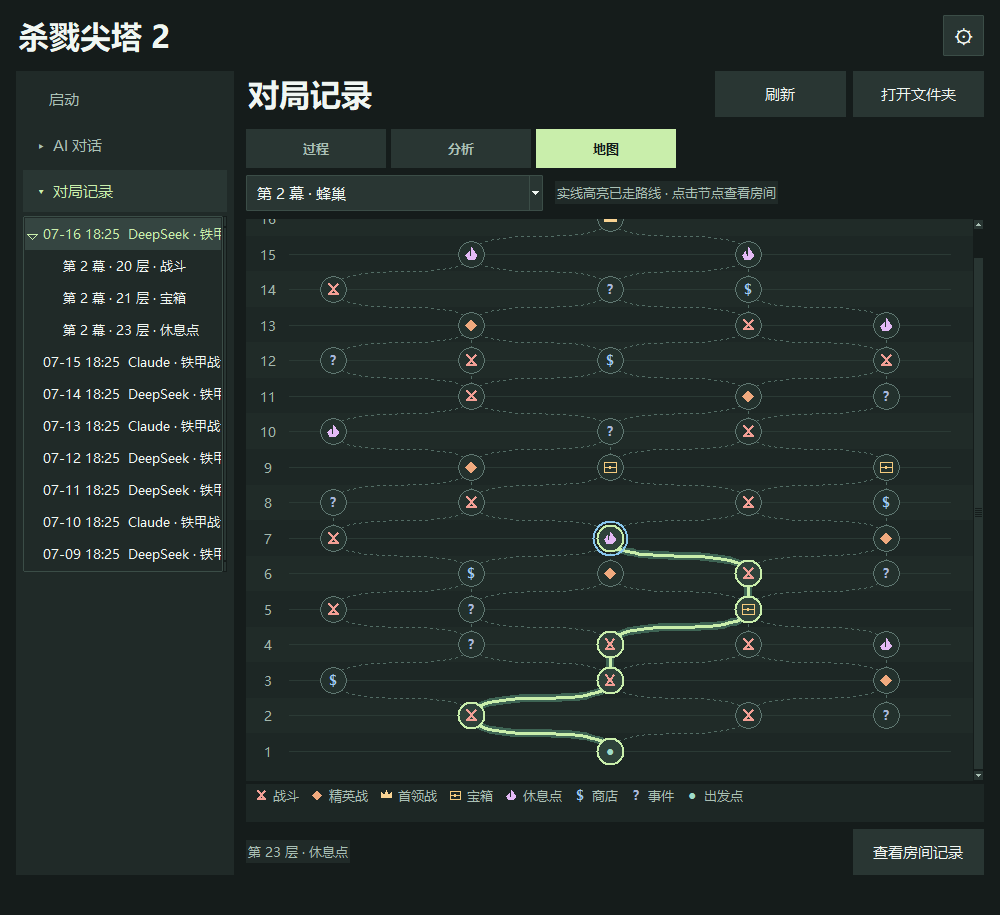
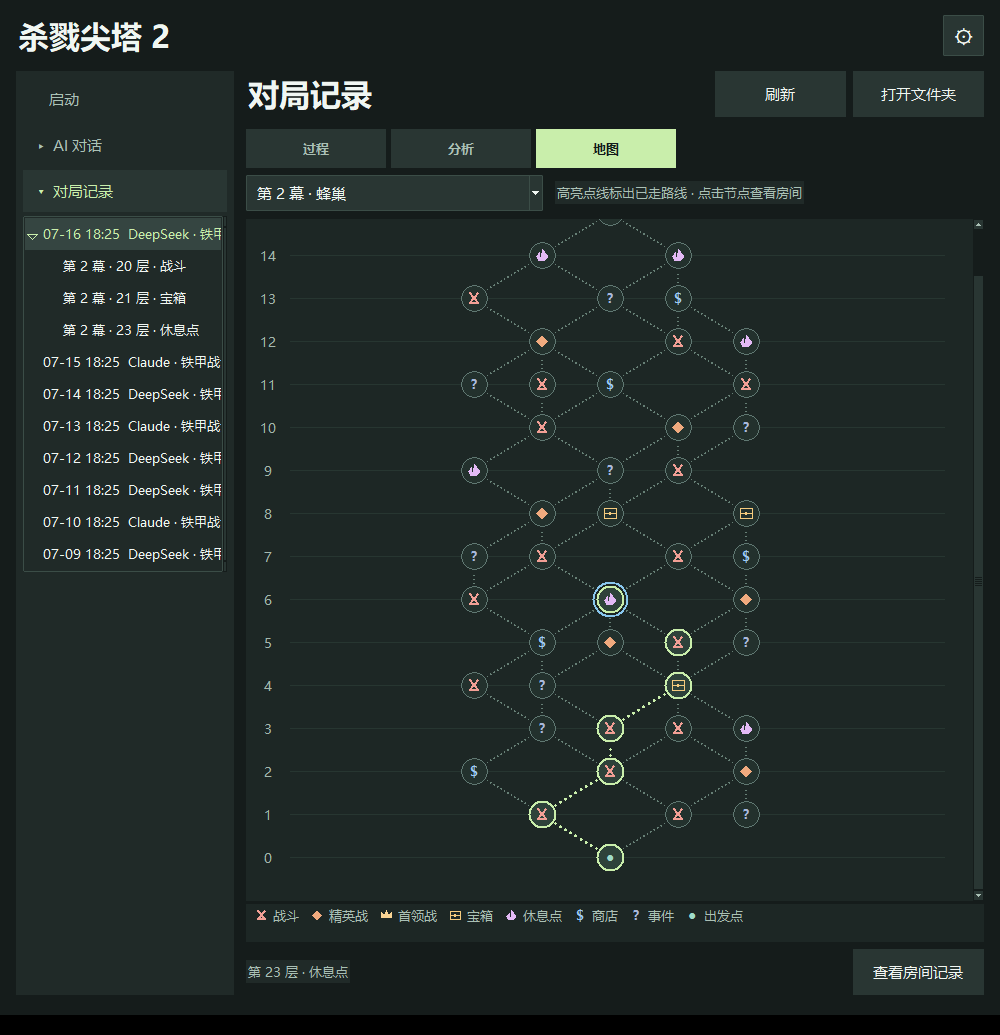
Render archived paths on the original map grid

diff --git a/python/run_map.py b/python/run_map.py
@@ -1,13 +1,26 @@
 """Read archived chapters and render their paths in the desktop launcher."""
 
 import json
+from math import hypot
 from tkinter import Canvas, ttk
+from typing import NamedTuple
 
 
 KINDS = {"monster": "battle", "elite": "elite", "boss": "boss", "restsite": "rest",
          "shop": "shop", "treasure": "chest", "event": "event", "unknown": "event", "ancient": "start"}
 COLORS = {"battle": "#F29F95", "elite": "#F0AA7E", "boss": "#F8D393", "chest": "#F5CB7E",
           "rest": "#E3B9F5", "shop": "#9CCAF4", "event": "#A7B8DC", "start": "#9EDCCA"}
+
+
+class Chapter(NamedTuple):
+    name: object
+    full: bool
+    nodes: dict
+    edges: list
+    art: dict
+    columns: int
+    current: tuple | None
+    special_art: dict
 
 
 def coordinate(value):
@@ -34,7 +47,7 @@ def scene_records(folder):
 def read_chapters(folder, records):
     if not folder:
         return {}
-    snapshots, visited = {}, {}
+    snapshots, visited, traces = {}, {}, {}
     pending = None
     for record in records(folder):
         data = record.get("data")
@@ -52,6 +65,8 @@ def read_chapters(folder, records):
         if data.get("type") == "map" and isinstance(data.get("rows"), list) and data["rows"]:
             snapshots[act] = data
             position = coordinate(data.get("current_coord"))
+            if isinstance(data.get("visited_path"), list):
+                traces[act] = [point for item in data["visited_path"] if (point := coordinate(item)) is not None]
         elif data.get("decision"):
             position = coordinate(ctx.get("map_coord")) or pending
         else:
@@ -59,6 +74,9 @@ def read_chapters(folder, records):
             continue
         if position and type(ctx.get("floor")) is int:
             visited.setdefault(act, {})[position] = ctx["floor"]
+            trace = traces.setdefault(act, [])
+            if not trace or trace[-1] != position:
+                trace.append(position)
         pending = None
 
     scenes = scene_records(folder)
@@ -68,16 +86,17 @@ def read_chapters(folder, records):
         nodes, edges = {}, set()
         floors = visited.get(act, {})
         rooms = {data["floor"]: (path, data) for path, data in scenes.get(act, [])}
-        rows = [item for row in snapshot.get("rows", []) if isinstance(row, list) for item in row]
-        boss = snapshot.get("boss")
-        if coordinate(boss) not in {coordinate(item) for item in rows}:
-            rows.append(boss)
-        for item in rows:
-            point = coordinate(item)
-            if point is None:
-                continue
+        raw = {point: item for row in snapshot.get("rows", []) if isinstance(row, list)
+               for item in row if (point := coordinate(item)) is not None}
+        specials = (snapshot.get("start"), snapshot.get("boss"), snapshot.get("second_boss"))
+        for item in specials:
+            if (point := coordinate(item)) is not None:
+                raw[point] = {**raw.get(point, {}), **item}
+        trace = [point for point in traces.get(act, ()) if point in raw]
+        traveled = set(trace)
+        for point, item in raw.items():
             floor = floors.get(point, point[1] + 1)
-            logged = point in floors or item.get("visited") is True or item.get("current") is True
+            logged = point in traveled or item.get("visited") is True or item.get("current") is True
             scene_path, scene = rooms.get(floor, (None, {})) if logged else (None, {})
             kind = item.get("type")
             room = KINDS.get(kind.casefold(), "event") if isinstance(kind, str) else "event"
@@ -91,14 +110,25 @@ def read_chapters(folder, records):
                 nodes[0, index] = (scene["room"], scene["floor"], True, path)
                 if index:
                     edges.add(((0, index - 1), (0, index)))
-        route = sorted((point for point, node in nodes.items() if node[2]), key=lambda point: (point[1], point[0]))
+        # A legacy archive may start midway through an act with only visit flags for earlier rooms.
+        first_row = trace[0][1] if trace else float("inf")
+        earlier = sorted((point for point, node in nodes.items() if node[2] and point not in traveled
+                          and point[1] < first_row), key=lambda point: (point[1], point[0]))
+        route = earlier + trace
         actual = set(zip(route, route[1:]))
         name = snapshot.get("context", {}).get("act_name")
+        boss = snapshot.get("boss")
         boss_id = boss.get("id") if isinstance(boss, dict) and isinstance(boss.get("id"), str) else None
         ancient_id = snapshot.get("ancient_id")
         art = {"boss": boss_id, "start": ancient_id if isinstance(ancient_id, str) else None}
-        chapters[act] = (name, full, nodes,
-                         [(p, q, (p, q) in actual) for p, q in sorted(edges) if p in nodes and q in nodes], art)
+        special_art = {point: item.get("id") for item in specials[1:]
+                       if (point := coordinate(item)) is not None and isinstance(item.get("id"), str)}
+        columns = snapshot.get("column_count")
+        minimum_columns = max((col for col, _ in nodes), default=0) + 1
+        columns = max(columns, minimum_columns) if type(columns) is int and 0 < columns <= 31 else minimum_columns
+        chapters[act] = Chapter(name, full, nodes,
+                                [(p, q, (p, q) in actual) for p, q in sorted(edges) if p in nodes and q in nodes],
+                                art, columns, route[-1] if route else None, special_art)
     return chapters
 
 
@@ -215,37 +245,29 @@ class RunMap:
         if width < 100 or height < 50:
             return
         chapter = self.chapters.get(self.act)
-        if not chapter or not chapter[2]:
+        if not chapter or not chapter.nodes:
             view.create_text(width / 2, height / 2, text=self.text("map_empty"), fill="#AAC0B5",
                              font=self.launcher.fonts["body"], width=width - 30)
             view.configure(scrollregion=(0, 0, width, height))
             return
-        _, full, nodes, edges, _ = chapter
-        columns, rows = sorted({col for col, _ in nodes}), sorted({row for _, row in nodes})
-        content_height = max(height, 34 * len(rows) + 49)
-        pitch = min(72, (content_height - 60) / max(1, len(rows) - 1))
-        side = min(95, max(55, int(width * .12)))
-        xs = {col: side + (width - 2 * side) * i / max(1, len(columns) - 1) for i, col in enumerate(columns)}
-        top = max(30, (content_height - pitch * (len(rows) - 1)) / 2)
-        ys = {row: top + pitch * i for i, row in enumerate(reversed(rows))}
-        positions = {p: (xs[p[0]] if len(columns) > 1 else width / 2, ys[p[1]]) for p in nodes}
+        nodes, edges = chapter.nodes, chapter.edges
+        rows = {row for _, row in nodes}
+        first, last = min(rows), max(rows)
+        step_y = 43
+        content_height = max(height, step_y * (last - first) + 88)
+        step_x = min(68, max(0, width - 98) / max(1, chapter.columns - 1))
+        top = (content_height - step_y * (last - first)) / 2
+        ys = {row: top + step_y * (last - row) for row in rows}
+        positions = {(col, row): (width / 2 + (col - (chapter.columns - 1) / 2) * step_x, ys[row])
+                     for col, row in nodes}
         view.configure(scrollregion=(0, 0, width, content_height))
-        for band, row in enumerate(rows):
-            floor = row + 1 if full else nodes[0, row][1]
-            if band % 2:
-                view.create_rectangle(0, ys[row] - pitch / 2, width, ys[row] + pitch / 2, fill="#202B28", outline="")
+        for row in sorted(rows):
+            floor = row if chapter.full else nodes[0, row][1]
             view.create_text(22, ys[row], text=str(floor), fill="#A4B8AD", font=self.launcher.fonts["small"])
-            view.create_line(43, ys[row], width - 22, ys[row], fill="#2B3A35")
+            view.create_line(44, ys[row], width - 28, ys[row], fill="#273631")
         for left, right, reached in sorted(edges, key=lambda edge: edge[2]):
-            x1, y1 = positions[left]
-            x2, y2 = positions[right]
-            middle = (y1 + y2) / 2
-            curve = (x1, y1, x1, middle, x2, middle, x2, y2)
-            if reached:
-                view.create_line(*curve, smooth=True, fill="#3E6454", width=8)
-            view.create_line(*curve, smooth=True, fill="#C9EEAB" if reached else "#526C64",
-                             width=3 if reached else 1, dash=() if reached else (3, 4))
-        current = max((point for point, node in nodes.items() if node[2]), key=lambda point: point[1], default=None)
+            self.draw_path(positions[left], positions[right], reached)
+        current = chapter.current
         for point, (room, _, reached, _) in nodes.items():
             x, y = positions[point]
             tag = f"room_{point[0]}_{point[1]}"
@@ -256,7 +278,7 @@ class RunMap:
                 view.create_oval(x-17, y-17, x+17, y+17, outline=ring, width=2, tags=tag)
             view.create_oval(x-radius, y-radius, x+radius, y+radius, fill="#2E423A" if reached else "#23312D",
                              width=2 if reached else 1, outline=outline, tags=tag)
-            self.icon(room, x, y, tag, scale=1.2)
+            self.icon(room, x, y, tag, scale=1.2, detail=chapter.special_art.get(point))
             view.tag_bind(tag, "<Button-1>", lambda _event, point=point: self.select_node(point))
             view.tag_bind(tag, "<Enter>", lambda _event: view.configure(cursor="hand2"))
             view.tag_bind(tag, "<Leave>", lambda _event: view.configure(cursor=""))
@@ -267,6 +289,17 @@ class RunMap:
             else:
                 view.yview_moveto(0)
             self.focus_route = False
+
+    def draw_path(self, start, end, reached):
+        x, y = start
+        dx, dy = end[0] - x, end[1] - y
+        length = hypot(dx, dy)
+        if length <= 32:
+            return
+        gap = 16 / length
+        self.canvas.create_line(x + dx * gap, y + dy * gap, end[0] - dx * gap, end[1] - dy * gap,
+                                fill="#C9EEAB" if reached else "#667F75", width=3 if reached else 2,
+                                dash=(2, 5), capstyle="round", tags="route" if reached else "path")
 
     def draw_legend(self, _event=None):
         view = self.legend
@@ -285,10 +318,10 @@ class RunMap:
             view.create_text(x + 12, y, text=label, fill="#AAC0B5", font=font, anchor="w")
             x += size
 
-    def icon(self, room, x, y, tag, canvas=None, scale=1):
+    def icon(self, room, x, y, tag, canvas=None, scale=1, detail=None):
         canvas, color = canvas or self.canvas, COLORS[room]
         chapter = self.chapters.get(self.act)
-        detail = chapter[4].get(room) if chapter else None
+        detail = detail or (chapter.art.get(room) if chapter else None)
         edge = 25 if scale > 1 else 15
         image = self.launcher.art.room_icon(room, detail, (edge, edge))
         if image:

diff --git a/src/Sts2Headless/RunSimulator.cs b/src/Sts2Headless/RunSimulator.cs
@@ -3788,70 +3788,58 @@ public class RunSimulator
         var currentCoord = _runState.CurrentMapCoord;
         var visited = _runState.VisitedMapCoords;
 
+        static Dictionary<string, int> Coord(MapCoord position) => new()
+        {
+            ["col"] = position.col, ["row"] = position.row,
+        };
+
+        Dictionary<string, object?> SerializePoint(MapPoint point) => new()
+        {
+            ["col"] = (int)point.coord.col,
+            ["row"] = (int)point.coord.row,
+            ["type"] = point.PointType.ToString(),
+            ["children"] = point.Children?.Select(child => Coord(child.coord)).ToArray(),
+            ["visited"] = visited?.Contains(point.coord) ?? false,
+            ["current"] = currentCoord.HasValue && currentCoord.Value.Equals(point.coord),
+        };
+
         for (int row = 0; row < map.GetRowCount(); row++)
         {
             var rowNodes = new List<Dictionary<string, object?>>();
             foreach (var point in map.GetPointsInRow(row))
             {
-                if (point == null) continue;
-                var children = point.Children?.Select(ch => new Dictionary<string, object?>
-                {
-                    ["col"] = (int)ch.coord.col,
-                    ["row"] = (int)ch.coord.row,
-                }).ToList();
-
-                var isVisited = visited?.Any(v => v.col == point.coord.col && v.row == point.coord.row) ?? false;
-                var isCurrent = currentCoord.HasValue &&
-                    currentCoord.Value.col == point.coord.col && currentCoord.Value.row == point.coord.row;
-
-                rowNodes.Add(new Dictionary<string, object?>
-                {
-                    ["col"] = (int)point.coord.col,
-                    ["row"] = (int)point.coord.row,
-                    ["type"] = point.PointType.ToString(),
-                    ["children"] = children,
-                    ["visited"] = isVisited,
-                    ["current"] = isCurrent,
-                });
+                if (point != null) rowNodes.Add(SerializePoint(point));
             }
             if (rowNodes.Count > 0)
                 rows.Add(rowNodes);
         }
 
-        // Boss node
-        var bossNode = new Dictionary<string, object?>
+        Dictionary<string, object?> SerializeBoss(MapPoint point, string? id)
         {
-            ["col"] = (int)map.BossMapPoint.coord.col,
-            ["row"] = (int)map.BossMapPoint.coord.row,
-            ["type"] = map.BossMapPoint.PointType.ToString(),
-        };
-
-        // Add boss name/id — use BossEncounter?.Id?.Entry
-        try
-        {
-            var bossIdEntry = _runState.Act?.BossEncounter?.Id?.Entry;
-            if (!string.IsNullOrEmpty(bossIdEntry))
+            var node = SerializePoint(point);
+            if (!string.IsNullOrEmpty(id))
             {
-                var monsterKey = bossIdEntry.EndsWith("_BOSS") ? bossIdEntry[..^5] : bossIdEntry;
+                var monsterKey = id.EndsWith("_BOSS") ? id[..^5] : id;
                 if (monsterKey == "THE_KIN") monsterKey = "KIN_PRIEST";
-                bossNode["id"] = bossIdEntry;
-                bossNode["name"] = _loc.Monster(monsterKey);
+                node["id"] = id;
+                node["name"] = _loc.Monster(monsterKey);
             }
+            return node;
         }
-        catch { }
 
         return new Dictionary<string, object?>
         {
             ["type"] = "map",
             ["context"] = RunContext(),
             ["rows"] = rows,
-            ["boss"] = bossNode,
+            ["column_count"] = map.GetColumnCount(),
+            ["start"] = SerializePoint(map.StartingMapPoint),
+            ["boss"] = SerializeBoss(map.BossMapPoint, _runState.Act?.BossEncounter?.Id?.Entry),
+            ["second_boss"] = map.SecondBossMapPoint is { } second
+                ? SerializeBoss(second, _runState.Act?.SecondBossEncounter?.Id?.Entry) : null,
             ["ancient_id"] = _runState.Act?.Ancient?.Id.Entry,
-            ["current_coord"] = currentCoord.HasValue ? new Dictionary<string, object?>
-            {
-                ["col"] = (int)currentCoord.Value.col,
-                ["row"] = (int)currentCoord.Value.row,
-            } : null,
+            ["visited_path"] = visited?.Select(Coord).ToArray(),
+            ["current_coord"] = currentCoord.HasValue ? Coord(currentCoord.Value) : null,
         };
     }
 

diff --git a/README.md b/README.md
@@ -21,7 +21,7 @@ The ZIP includes Python and .NET. Manual play needs no API key. For AI play, sav
 - **Personas and languages.** Save a model, speaking style, and output language per persona. The interface and AI commentary each offer 17 languages and can be set independently.
 - **Local saves.** Detect or set a save folder from the gear menu, then select a save on the launch page.
 - **AI chat and run history.** Expand either view from the sidebar. Each run has its own archive, with separate folders for encounters, chests, rest sites, and other rooms.
-- **Run maps.** Switch between runs and acts, follow the highlighted route on a scrollable map, and open a visited room's record from its icon.
+- **Run maps.** Switch between runs and acts. The scrollable map uses the engine's grid and room connections, with bright dots marking the traveled route. Select a visited room to open its record.
 - **Game icons.** Room and character icons are read from your Steam install. Archives can still be opened with built-in symbols when the art is unavailable.
 - **Character and run analysis.** The top panel shows the portrait, current HP and recent health changes, gold, deck size, and relic count. Analysis updates while a selected run is in progress. Historical charts appear below.
 
